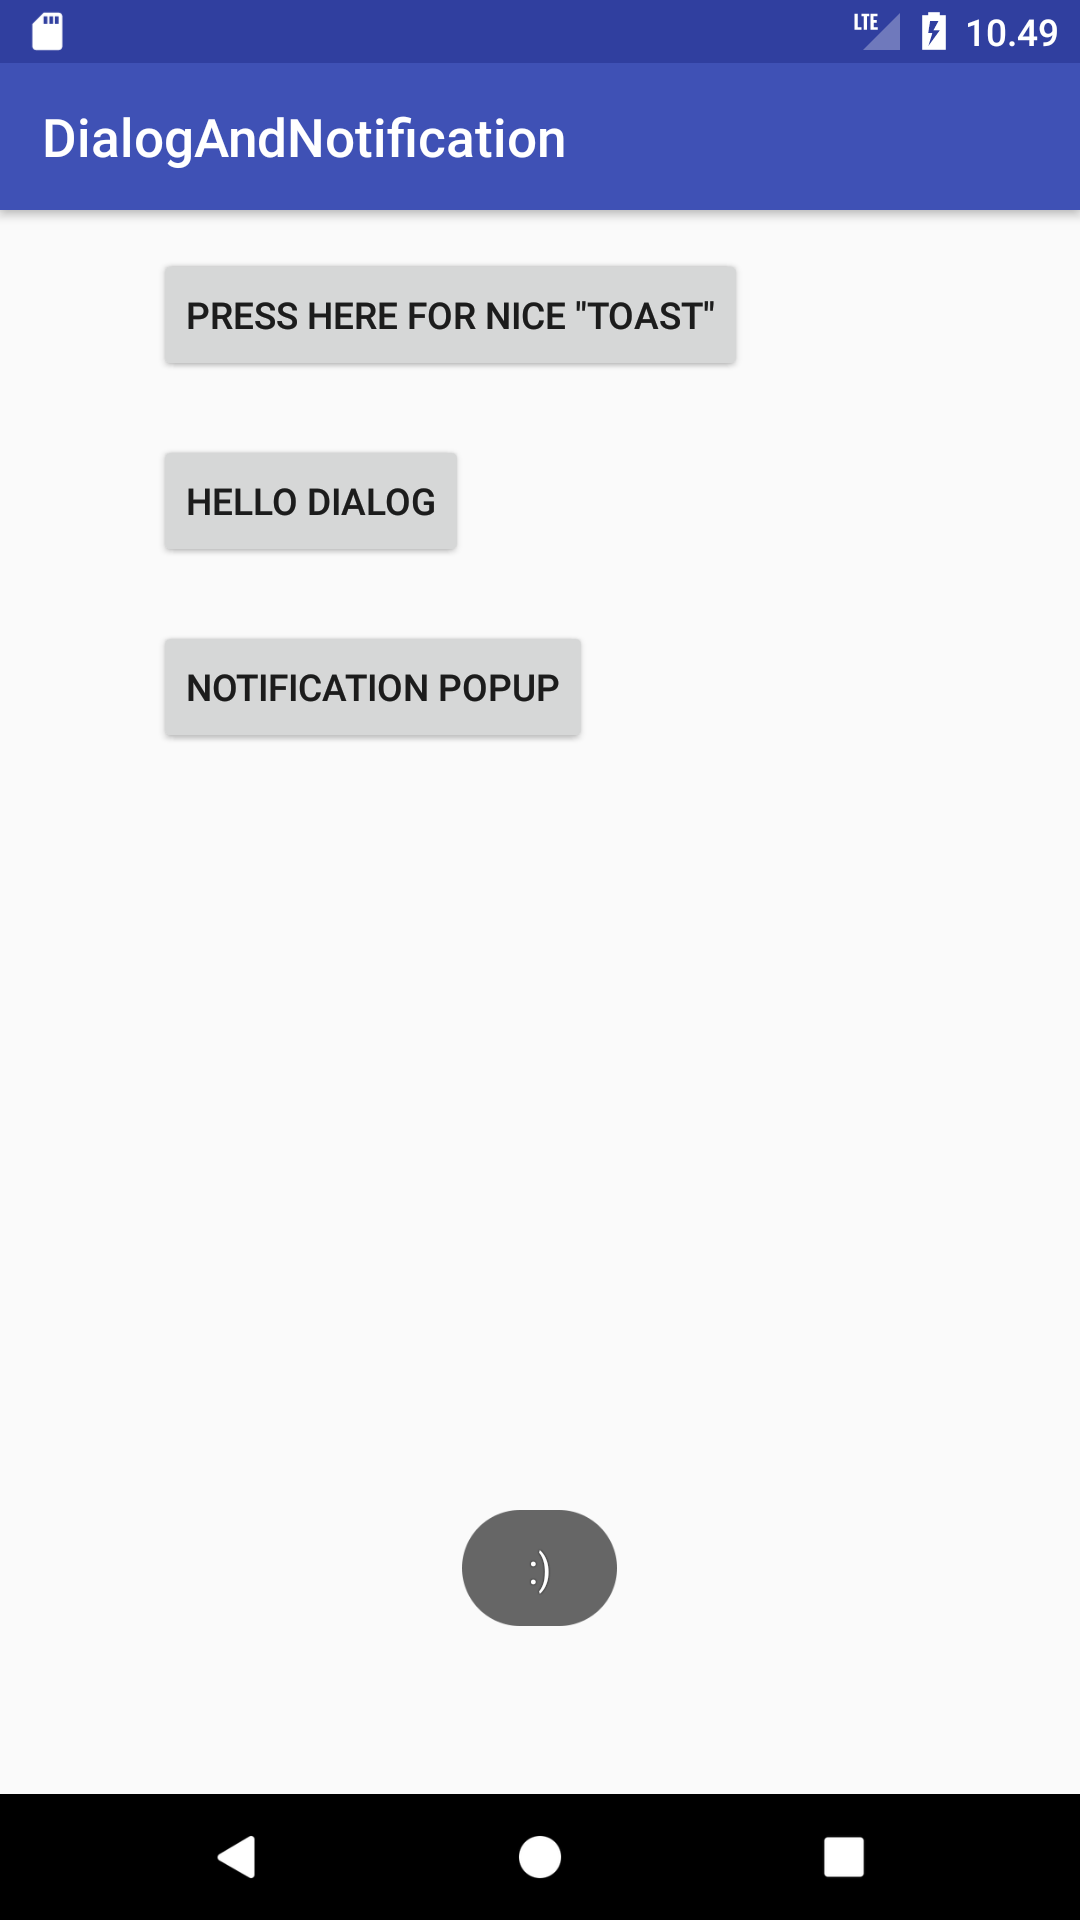
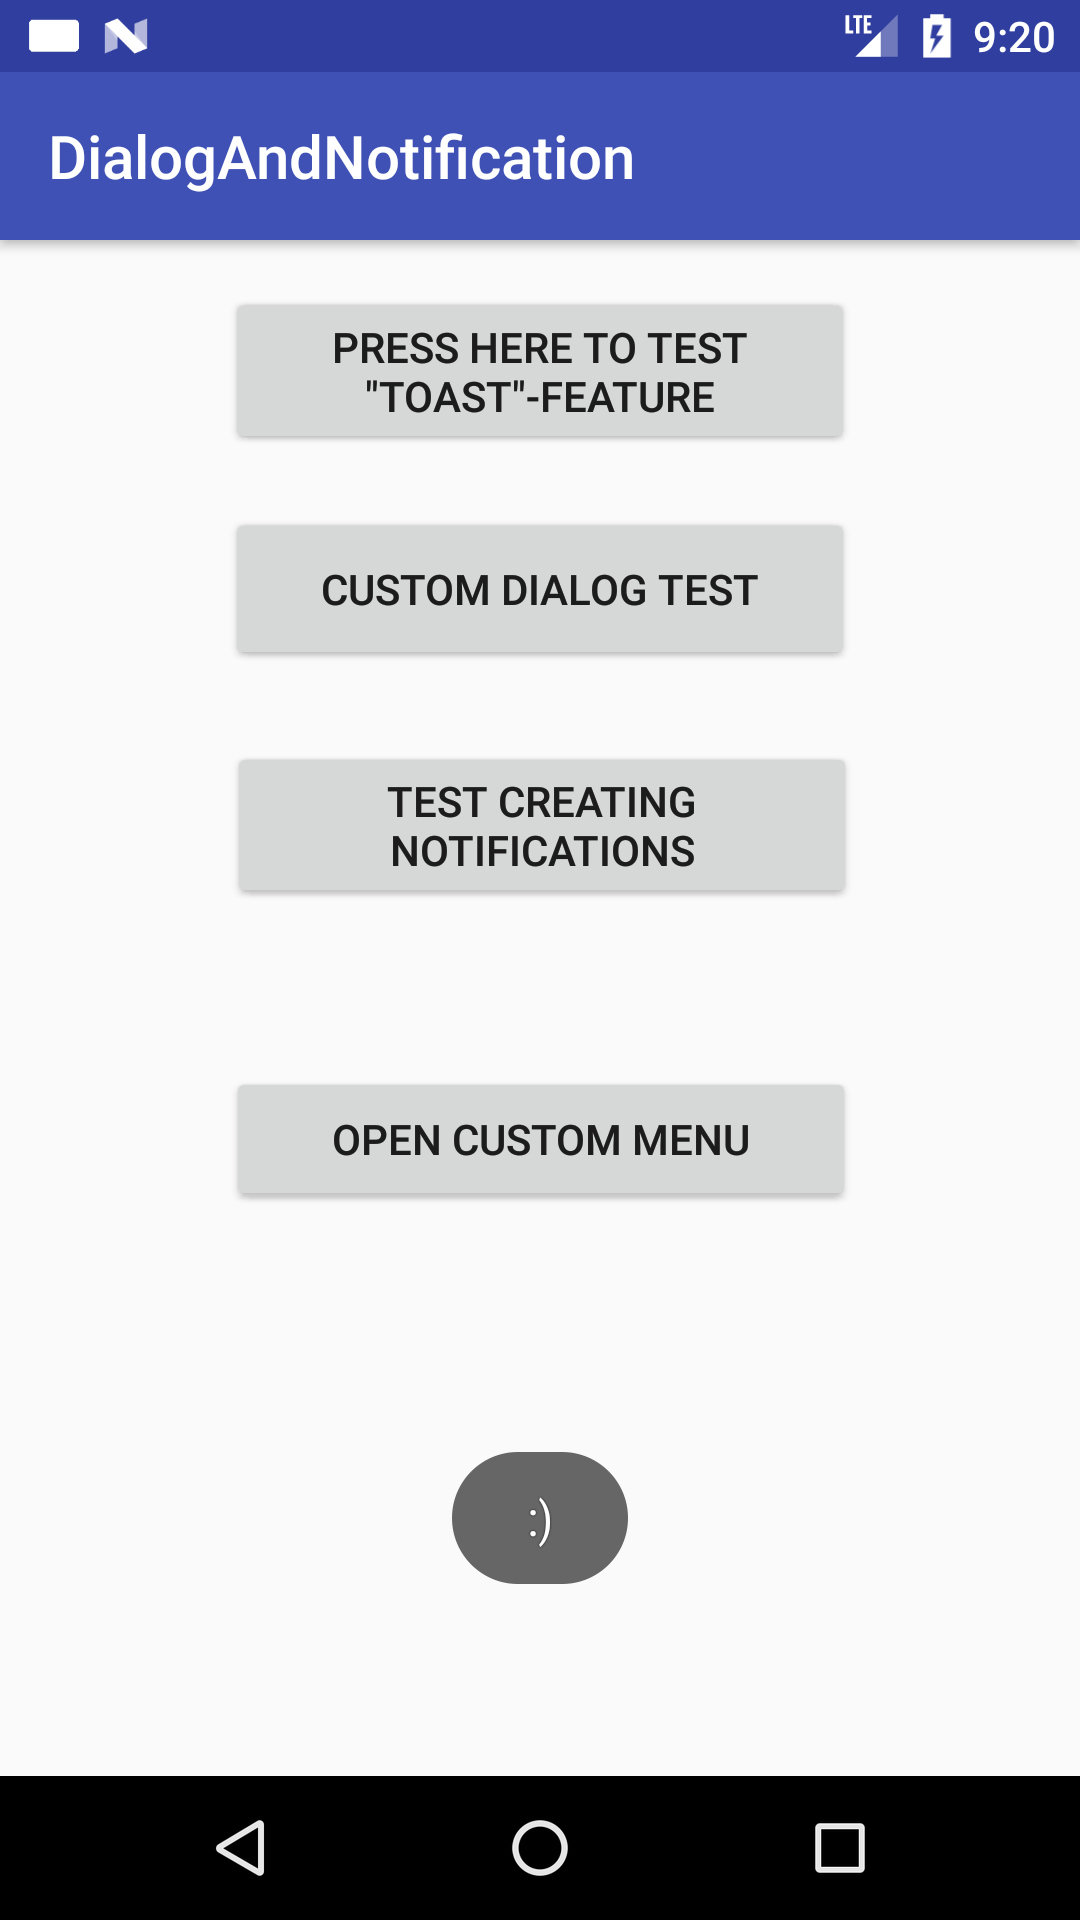
cleaned notificationDialogToast demo UI

diff --git a/DialogAndNotification/app/src/main/java/com/androidprogramming/k1967/dialogandnotification/MainActivity.java b/DialogAndNotification/app/src/main/java/com/androidprogramming/k1967/dialogandnotification/MainActivity.java
@@ -4,6 +4,7 @@ import android.app.DialogFragment;
 import android.app.Notification;
 import android.app.NotificationChannel;
 import android.app.NotificationManager;
+import android.graphics.Color;
 import android.support.v7.app.AppCompatActivity;
 import android.os.Bundle;
 import android.support.v7.view.ActionMode;
@@ -24,8 +25,8 @@ public class MainActivity extends AppCompatActivity implements customDialog.Cust
     //id system for notifications
     int notification_id = 1;
 
+    //current action mode
     private android.view.ActionMode mAction;
-
 
 
     @Override
@@ -37,32 +38,29 @@ public class MainActivity extends AppCompatActivity implements customDialog.Cust
 
     //when "get dialog" button is clicked
     public void DialogClick(View view){
+        //run dialog test method
         dialogFuntion();
     }
-
-
 
     //listens for the custom dialogs responses!
         @Override
         public void onDialogPositiveClick(boolean response) {
+            //notify user with Toast
             Toast.makeText(getApplicationContext(), ":)", Toast.LENGTH_SHORT).show();
+
+            //create notification
+            createNotification(Notification.VISIBILITY_PRIVATE, "Input \"agree\" received", "You have defined the custom input as \"nice\"", Notification.CATEGORY_EVENT);
         }
 
         @Override
         public void onDialogNegativeClick(boolean response) {
             Toast.makeText(getApplicationContext(), ":(", Toast.LENGTH_SHORT).show();
+            createNotification(Notification.BADGE_ICON_LARGE, "Testing", "upi", Notification.CATEGORY_EVENT);
         }
     //---
 
 
-
-    //when menu button is pressed
-    public void menuButtonClick(View view){
-
-        mAction = MainActivity.this.startActionMode(mActionModeCallback);
-        view.setSelected(true);
-    }
-
+    //Menu testing
 
     private android.view.ActionMode.Callback mActionModeCallback = new android.view.ActionMode.Callback() {
 
@@ -108,15 +106,11 @@ public class MainActivity extends AppCompatActivity implements customDialog.Cust
         }
     };
 
-
-
     public void onCreateContextMenu(ContextMenu menu, View v, ContextMenu.ContextMenuInfo menuInfo) {
         super.onCreateContextMenu(menu, v, menuInfo);
         MenuInflater inflater = getMenuInflater();
         inflater.inflate(R.menu.menulayout, menu);
     }
-
-
 
     @Override
     public boolean onContextItemSelected(MenuItem item) {
@@ -132,7 +126,7 @@ public class MainActivity extends AppCompatActivity implements customDialog.Cust
         notification_id++;
 
         /*
-        When using API 26 or newert
+        When using API 26 or newer
 
         //creating channel where notification are shown
         String channelID = "my_channel_1";
@@ -153,88 +147,113 @@ public class MainActivity extends AppCompatActivity implements customDialog.Cust
                 .setVisibility(visibility).build();
 
 
+
         //show the notification
         manager.notify(notification_id, notf);
     }
 
 
 
-    //when "get notification" button is clicked
-    public void notfClick(View view){
-        notificationFunction();
-    }
+    //button onClick
 
-    //when "get Toast" button is clicked
-    public void ToastClick(View view){
-
-        toastFunction();
-    }
-
-
-    private void toastFunction(){
-
-        Random rand = new Random();
-        int n = rand.nextInt(4);
-        String msg;
-
-        //every time "Give Toast" -button is pressed a random message is shown to user
-
-        switch (n){
-            case 0:
-                msg = "Hello user";
-                break;
-            case 1:
-                msg = "Nice day we are having";
-                break;
-            case 2:
-                msg = "There are limited number of possible responses";
-                break;
-            case 3:
-                msg = "Cake is a lie";
-                break;
-            case 4:
-                msg = "101100101 01100101 0111001";
-                break;
-            default:
-                msg = "Message is empty";
-                break;
+        //when "get notification" button is clicked
+        public void notfClick(View view){
+            //execute notification test method
+            notificationFunction();
         }
 
-        //show the message
-        Toast.makeText(getApplicationContext(), msg, Toast.LENGTH_SHORT).show();
-    }
-
-    private void dialogFuntion(){
-
-        //create and show custom dialog
-        customDialog dialog = new customDialog();
-        dialog.show(getFragmentManager(), "someTag");
-
-    }
-
-    private void notificationFunction(){
-        createNotification(Notification.VISIBILITY_PUBLIC, "Moi käyttäjä", "Toimiikohan tämä?", Notification.CATEGORY_MESSAGE);
-
-        try {
-
-            final Runnable task = new Runnable() {
-                @Override
-                public void run() {
-                    try {
-                        Thread.sleep(5000, 0);
-                        createNotification(Notification.VISIBILITY_PUBLIC, "Thread testing...", "Should have appeared 5 seconds after first notification", Notification.CATEGORY_PROGRESS);
-                    }
-                    catch (Exception ex){
-                        String msg = ex.getMessage();
-                    }
-                }
-            };
-
-            Thread thread = new Thread(task);
-            thread.start();
-
-        } catch (Exception ex){
-            String msg = ex.getMessage();
+        //when "get Toast" button is clicked
+        public void ToastClick(View view){
+            //execute testing method
+            toastFunction();
         }
+
+        //when menu button is pressed
+        public void menuButtonClick(View view){
+
+        mAction = MainActivity.this.startActionMode(mActionModeCallback);
+        view.setSelected(true);
     }
+
+    //---
+
+    //testing functions
+
+        //Toast test method
+        private void toastFunction(){
+
+            //select random int from range 0 to 4
+            Random rand = new Random();
+            int n = rand.nextInt(4);
+
+            //contains message
+            String msg;
+
+            //every time "Give Toast" -button is pressed a random message is shown to user
+
+            switch (n){
+                case 0:
+                    msg = "Hello user";
+                    break;
+                case 1:
+                    msg = "Nice day we are having";
+                    break;
+                case 2:
+                    msg = "There are limited number of possible responses";
+                    break;
+                case 3:
+                    msg = "Cake is a lie";
+                    break;
+                case 4:
+                    msg = "101100101 01100101 0111001";
+                    break;
+                default:
+                    msg = "Message is empty";
+                    break;
+            }
+
+            //show the message
+            Toast.makeText(getApplicationContext(), msg, Toast.LENGTH_SHORT).show();
+        }
+
+        //Custom dialog test method
+        private void dialogFuntion(){
+
+            //create and show custom dialog
+            customDialog dialog = new customDialog();
+            dialog.show(getFragmentManager(), "someTag");
+
+        }
+
+        //Notification test method
+        private void notificationFunction(){
+
+            //creates and shows new notification
+            createNotification(Notification.VISIBILITY_PUBLIC, "Moi käyttäjä", "Toimiikohan tämä?", Notification.CATEGORY_MESSAGE);
+
+            //not part of the assigment but here is some notification testing with threads
+            try {
+
+                final Runnable task = new Runnable() {
+                    @Override
+                    public void run() {
+                        try {
+                            Thread.sleep(5000, 0);
+                            createNotification(Notification.VISIBILITY_PUBLIC, "Thread testing...", "Should have appeared 5 seconds after first notification", Notification.CATEGORY_PROGRESS);
+                        }
+                        catch (Exception ex){
+                            String msg = ex.getMessage();
+                        }
+                    }
+                };
+
+                Thread thread = new Thread(task);
+                thread.start();
+
+            } catch (Exception ex){
+                String msg = ex.getMessage();
+            }
+        }
+
+    //---
 }
